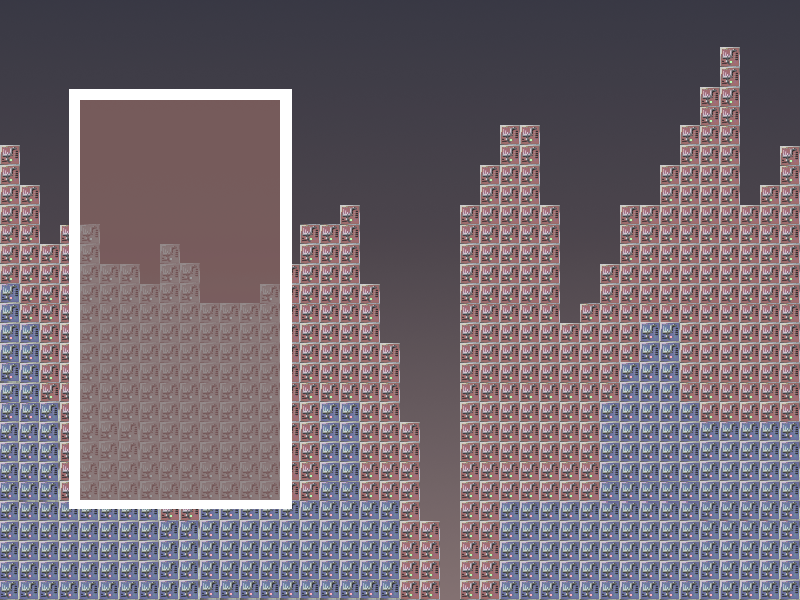
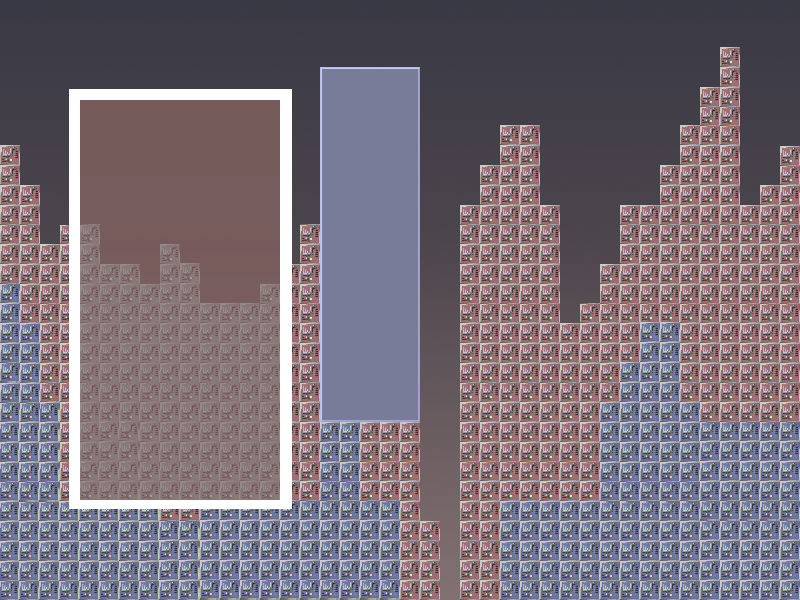
Fixed a bug in TetriminoPreview where the positions were sometimes wrong

Changed region(s): [[0.375, 0.09, 0.5312, 0.72]]

diff --git a/Dreetris/Dreetris/TetriminoPreview.cs b/Dreetris/Dreetris/TetriminoPreview.cs
@@ -80,25 +80,30 @@ namespace Dreetris
 
         public void draw(SpriteBatch spriteBatch)
         {
+            // the next four Tetriminos
             Tetrimino current = getTetrimino(randomBlocks.GetBlock(0));
             Tetrimino next1 = getTetrimino(randomBlocks.GetBlock(1));
             Tetrimino next2 = getTetrimino(randomBlocks.GetBlock(2));
             Tetrimino next3 = getTetrimino(randomBlocks.GetBlock(3));
 
-            Point position2 = new Point();
-            position2.X = position.X;
-            position2.Y = position.Y + Tetrimino.BLOCK_HEIGHT * 5;
-
             current.boardPosition = position;
-            next1.boardPosition = position2;
-            next2.boardPosition = position2;
-            next3.boardPosition = position2;
 
             current.position.X = 0;
             current.position.Y = 0;
 
             current.scale();
             current.draw(spriteBatch);
+
+            Point position2 = new Point();
+            position2.X = position.X;
+            position2.Y = position.Y + Tetrimino.BLOCK_HEIGHT * 5;
+
+            // relative position of the scaled Tetriminos
+            next1.boardPosition = position2;
+            next2.boardPosition = position2;
+            next3.boardPosition = position2;
+
+            // draw the scaled Tritriminos onto the screen
 
             next1.scale(0.75f);
             next2.scale(0.75f);

diff --git a/Dreetris/Screens/GameScreen.cs b/Dreetris/Screens/GameScreen.cs
@@ -53,9 +53,6 @@ namespace Dreetris.Screens
             board = new TetrisBoard(assetManager, screenManager.keyboard, 10, 20, 80, 100);
             board.Initialize();
 
-            testAnim = assetManager.getSprite("testanim");
-            testAnim.position = new Vector2(40,40);
-
             base.Initialize();
         }
 
@@ -63,8 +60,6 @@ namespace Dreetris.Screens
         {
             screenManager.keyboard.Process(gameTime);
             ProcessKeyboard(gameTime);
-
-            testAnim.update(gameTime);
 
             //animation.Update(gameTime);
             board.Update(gameTime);
@@ -88,8 +83,6 @@ namespace Dreetris.Screens
             board.Draw(spriteBatch);
             spriteBatch.DrawString(Font1, "Score: " + board.GetScore().ToString(), new Vector2(500, 20), Color.White);
             spriteBatch.DrawString(Font1, "Level: " + board.level.ToString(), new Vector2(500, 40), Color.White);
-
-            testAnim.draw(spriteBatch);
 
             spriteBatch.End();
 

diff --git a/Dreetris/Dreetris/RandomBlocks.cs b/Dreetris/Dreetris/RandomBlocks.cs
@@ -17,6 +17,10 @@ namespace Dreetris
             Randomize();
         }
 
+        /// <summary>
+        /// Constructs an array with all Tetriminos
+        /// </summary>
+        /// <returns></returns>
         private Tetrimino.Type[] InitBlocks()
         {
             Tetrimino.Type[] array = new Tetrimino.Type[7];
